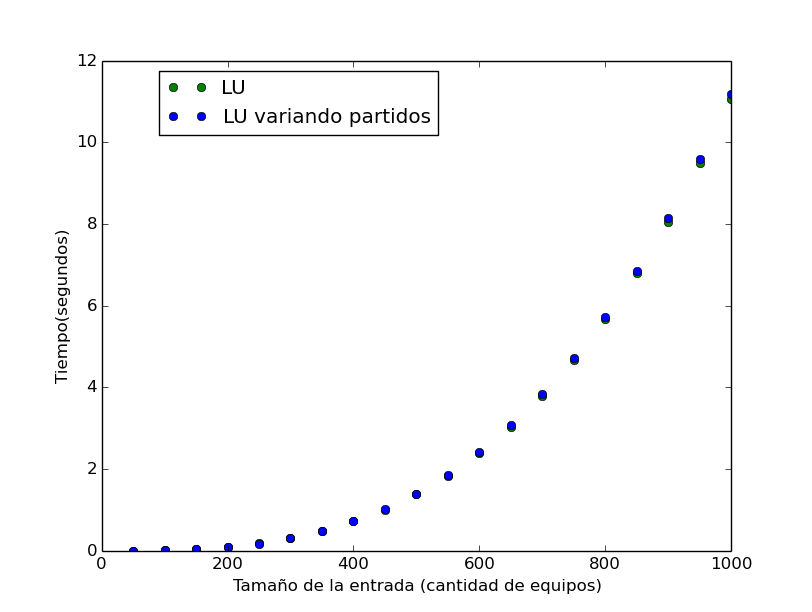
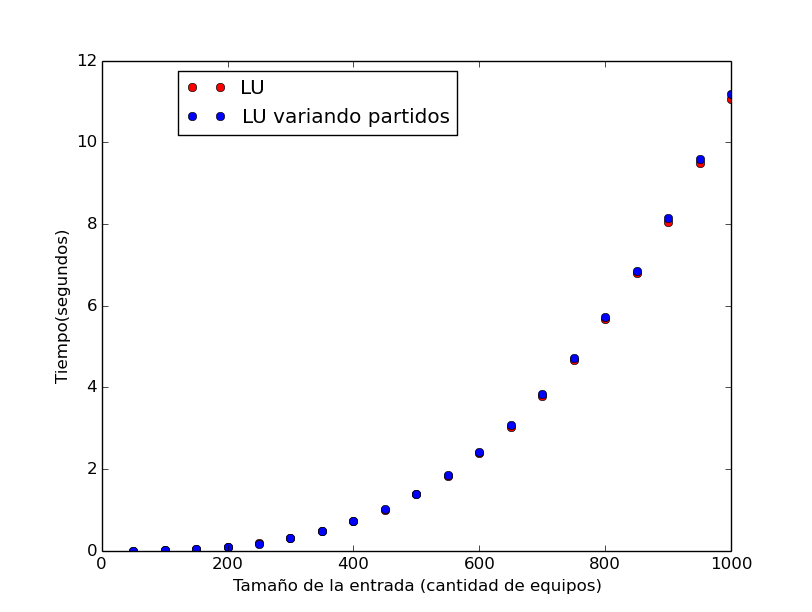
tiempo y graficos

Changed region(s): [[0.1847, 0.0931, 0.585, 0.2484]]

diff --git a/src/graficos/graficos_tiempo_variando_partidos.py b/src/graficos/graficos_tiempo_variando_partidos.py
@@ -6,8 +6,8 @@ import matplotlib.pyplot as plt
 from math import log
 
 #numeros del eje x
-#x = [50,100,150,200,250,300,350,400,450,500,550,600,650,700,750,800,850,900,950,1000]
-x = [5000,10000,15000,20000,25000,30000,35000,40000,45000,50000,55000,60000,65000,70000,75000,80000,85000,90000,95000,100000]
+x = [50,100,150,200,250,300,350,400,450,500,550,600,650,700,750,800,850,900,950,1000]
+#x = [5000,10000,15000,20000,25000,30000,35000,40000,45000,50000,55000,60000,65000,70000,75000,80000,85000,90000,95000,100000]
 
 # valores primera funcion
 y_gauss = []
@@ -37,52 +37,52 @@ for i in range(0,20):
   y_LU2.append(float(f.readline()[:-1]))
 
 #valores tercer funcion
-#f = open('../resultadosTiempos/tiemposCholeskySinVariar.txt', 'r')
-#for i in range(0,20):
-#  y_cholesky.append(float(f.readline()[:-1]))
+f = open('../resultadosTiempos/tiemposCholeskySinVariar.txt', 'r')
+for i in range(0,20):
+  y_cholesky.append(float(f.readline()[:-1]))
 
 f = open('../resultadosTiempos/tiemposCholeskySinVariarConMuchosPartidos.txt', 'r')
 for i in range(0,20):
   y_cholesky2.append(float(f.readline()[:-1]))
 
-f = open('../resultadosTiempos/tiemposCholeskyGrandePartidos.txt', 'r')
-for i in range(0,20):
-  y_cholesky.append(float(f.readline()[:-1]))
+#f = open('../resultadosTiempos/tiemposCholeskyGrandePartidos.txt', 'r')
+#for i in range(0,20):
+#  y_cholesky.append(float(f.readline()[:-1]))
 
 
 #print len(y_gauss)
 #print len(y_LU)
 #print len(y_cholesky)
-print len(x)
-print len(y_cholesky)
-#plt.plot(x,y_gauss,'ro', color='green', label="Gauss")
-#plt.plot(x,y_gauss2,'ro', color='blue', label="Gauss variando partidos")
-#plt.plot(x,y_LU,'ro', color='green', label="LU")
+#print len(x)
+#print len(y_cholesky)
+plt.plot(x,y_gauss,'ro', color='red', label="Gauss")
+plt.plot(x,y_gauss2,'ro', color='blue', label="Gauss variando partidos")
+#plt.plot(x,y_LU,'ro', color='red', label="LU")
 #plt.plot(x,y_LU2,'ro', color='blue', label="LU variando partidos")
-#plt.plot(x,y_cholesky,'ro', color='green', label="Cholesky")
+#plt.plot(x,y_cholesky,'ro', color='red', label="Cholesky")
 #plt.plot(x,y_cholesky2,'ro', color='blue', label="Cholesky variando partidos")
-plt.plot(x,y_cholesky,'ro', color='blue', label="Cholesky variando partidos")
+#plt.plot(x,y_cholesky,'ro', color='blue', label="Cholesky variando partidos")
 
 yfunction = []
 
 #a = 5000
-for m in range(0,20):
+#for m in range(0,20):
   #if m == 0:
   #  yfunction.append(0.32650)
   #else:
     #yfunction.append(0.00000991721*a)
-  yfunction.append(0.32650)
+#  yfunction.append(0.32610)
 
   #  a += 5000 
 
-print "yfunction"
-print len(yfunction)
+#print "yfunction"
+#print len(yfunction)
 #sin 'ro' lo plotea como una funcion comun, continua
-plt.plot(x,yfunction, color='purple', label='T(n)=k*(n^3)',linewidth=3)
-plt.legend(bbox_to_anchor=(0.59,1))
+#plt.plot(x,yfunction, color='purple', label='T(n)=k',linewidth=3)
+plt.legend(bbox_to_anchor=(0.58,1))
 
 #nombre que va en el eje x
-plt.xlabel(u"cantidad de partidos")
+plt.xlabel(u"Tamaño de la entrada (cantidad de equipos)")
 
 #nombre que va en el eje y
 plt.ylabel("Tiempo(segundos)")

diff --git a/src/graficos/graficos_tiempo_sin_variar_grande.py b/src/graficos/graficos_tiempo_sin_variar_grande.py
@@ -1,0 +1,48 @@
+#!/usr/bin/env python
+# -*- coding: utf-8 -*-
+
+import numpy as np
+import matplotlib.pyplot as plt
+from math import log
+
+#numeros del eje x
+x = [1000, 2000, 3000, 4000, 5000, 6000, 7000, 8000, 9000, 10000]
+
+# valores primera funcion
+y_LU = []
+y_cholesky = []
+          
+#valores segunda funcion
+f = open('../resultadosTiempos/tiemposLUSinVariarGrande.txt', 'r')
+for i in range(0,10):
+  y_LU.append(float(f.readline()[:-1]))
+
+#valores tercer funcion
+f = open('../resultadosTiempos/tiemposCholeskySinVariarGrande.txt', 'r')
+for i in range(0,10):
+  y_cholesky.append(float(f.readline()[:-1]))
+
+plt.plot(x,y_LU,'ro', color='red', label="LU")
+plt.plot(x,y_cholesky,'ro', color='blue', label="Cholesky")
+
+yfunction = []
+
+a = 50
+for m in range(0,10):
+  if m == 0:
+    yfunction.append(0)
+  else:
+    yfunction.append(0.00016991721*a*a*a)
+    a += 50 
+
+#sin 'ro' lo plotea como una funcion comun, continua
+plt.plot(x,yfunction, color='purple', label='T(n)=k*(n^3)',linewidth=3)
+plt.legend(bbox_to_anchor=(0.35,1))
+
+#nombre que va en el eje x
+plt.xlabel(u"Tamaño de la entrada (cantidad de equipos)")
+
+#nombre que va en el eje y
+plt.ylabel("Tiempo(segundos)")
+
+plt.show()

diff --git a/src/graficos/graficos_tiempo_variando_Ryb.py b/src/graficos/graficos_tiempo_variando_Ryb.py
@@ -14,16 +14,16 @@ y_LU = []
 y_cholesky = []
           
 #valores primer funcion
-#f = open('../resultadosTiempos/tiemposGaussVariandoB.txt', 'r')
-#for i in range(0,20):
-#  y_gauss.append(float(f.readline()[:-1]))
+f = open('../resultadosTiempos/tiemposGaussVariandoB.txt', 'r')
+for i in range(0,20):
+  y_gauss.append(float(f.readline()[:-1]))
 
 #valores segunda funcion
-f = open('../resultadosTiempos/tiemposLUVariando3.txt', 'r')
+f = open('../resultadosTiempos/tiemposLUVariandoRyM.txt', 'r')
 for i in range(0,20):
   y_LU.append(float(f.readline()[:-1]))
 
-f = open('../resultadosTiempos/tiemposCholeskyVariando3.txt', 'r')
+f = open('../resultadosTiempos/tiemposCholeskyVariandoRyM.txt', 'r')
 for i in range(0,20):
   y_cholesky.append(float(f.readline()[:-1]))
 
@@ -33,7 +33,7 @@ for i in range(0,20):
 #print len(y_cholesky)
 #print len(x)
 #print len(y_cholesky)
-#plt.plot(x,y_gauss,'ro', color='blue', label="Gauss variando partidos")
+plt.plot(x,y_gauss,'ro', color='blue', label="Gauss variando vector resultado")
 plt.plot(x,y_LU,'ro', color='green', label="LU variando vector resultado")
 plt.plot(x,y_cholesky,'ro', color='red', label="Cholesky variando vector resultado")
 
